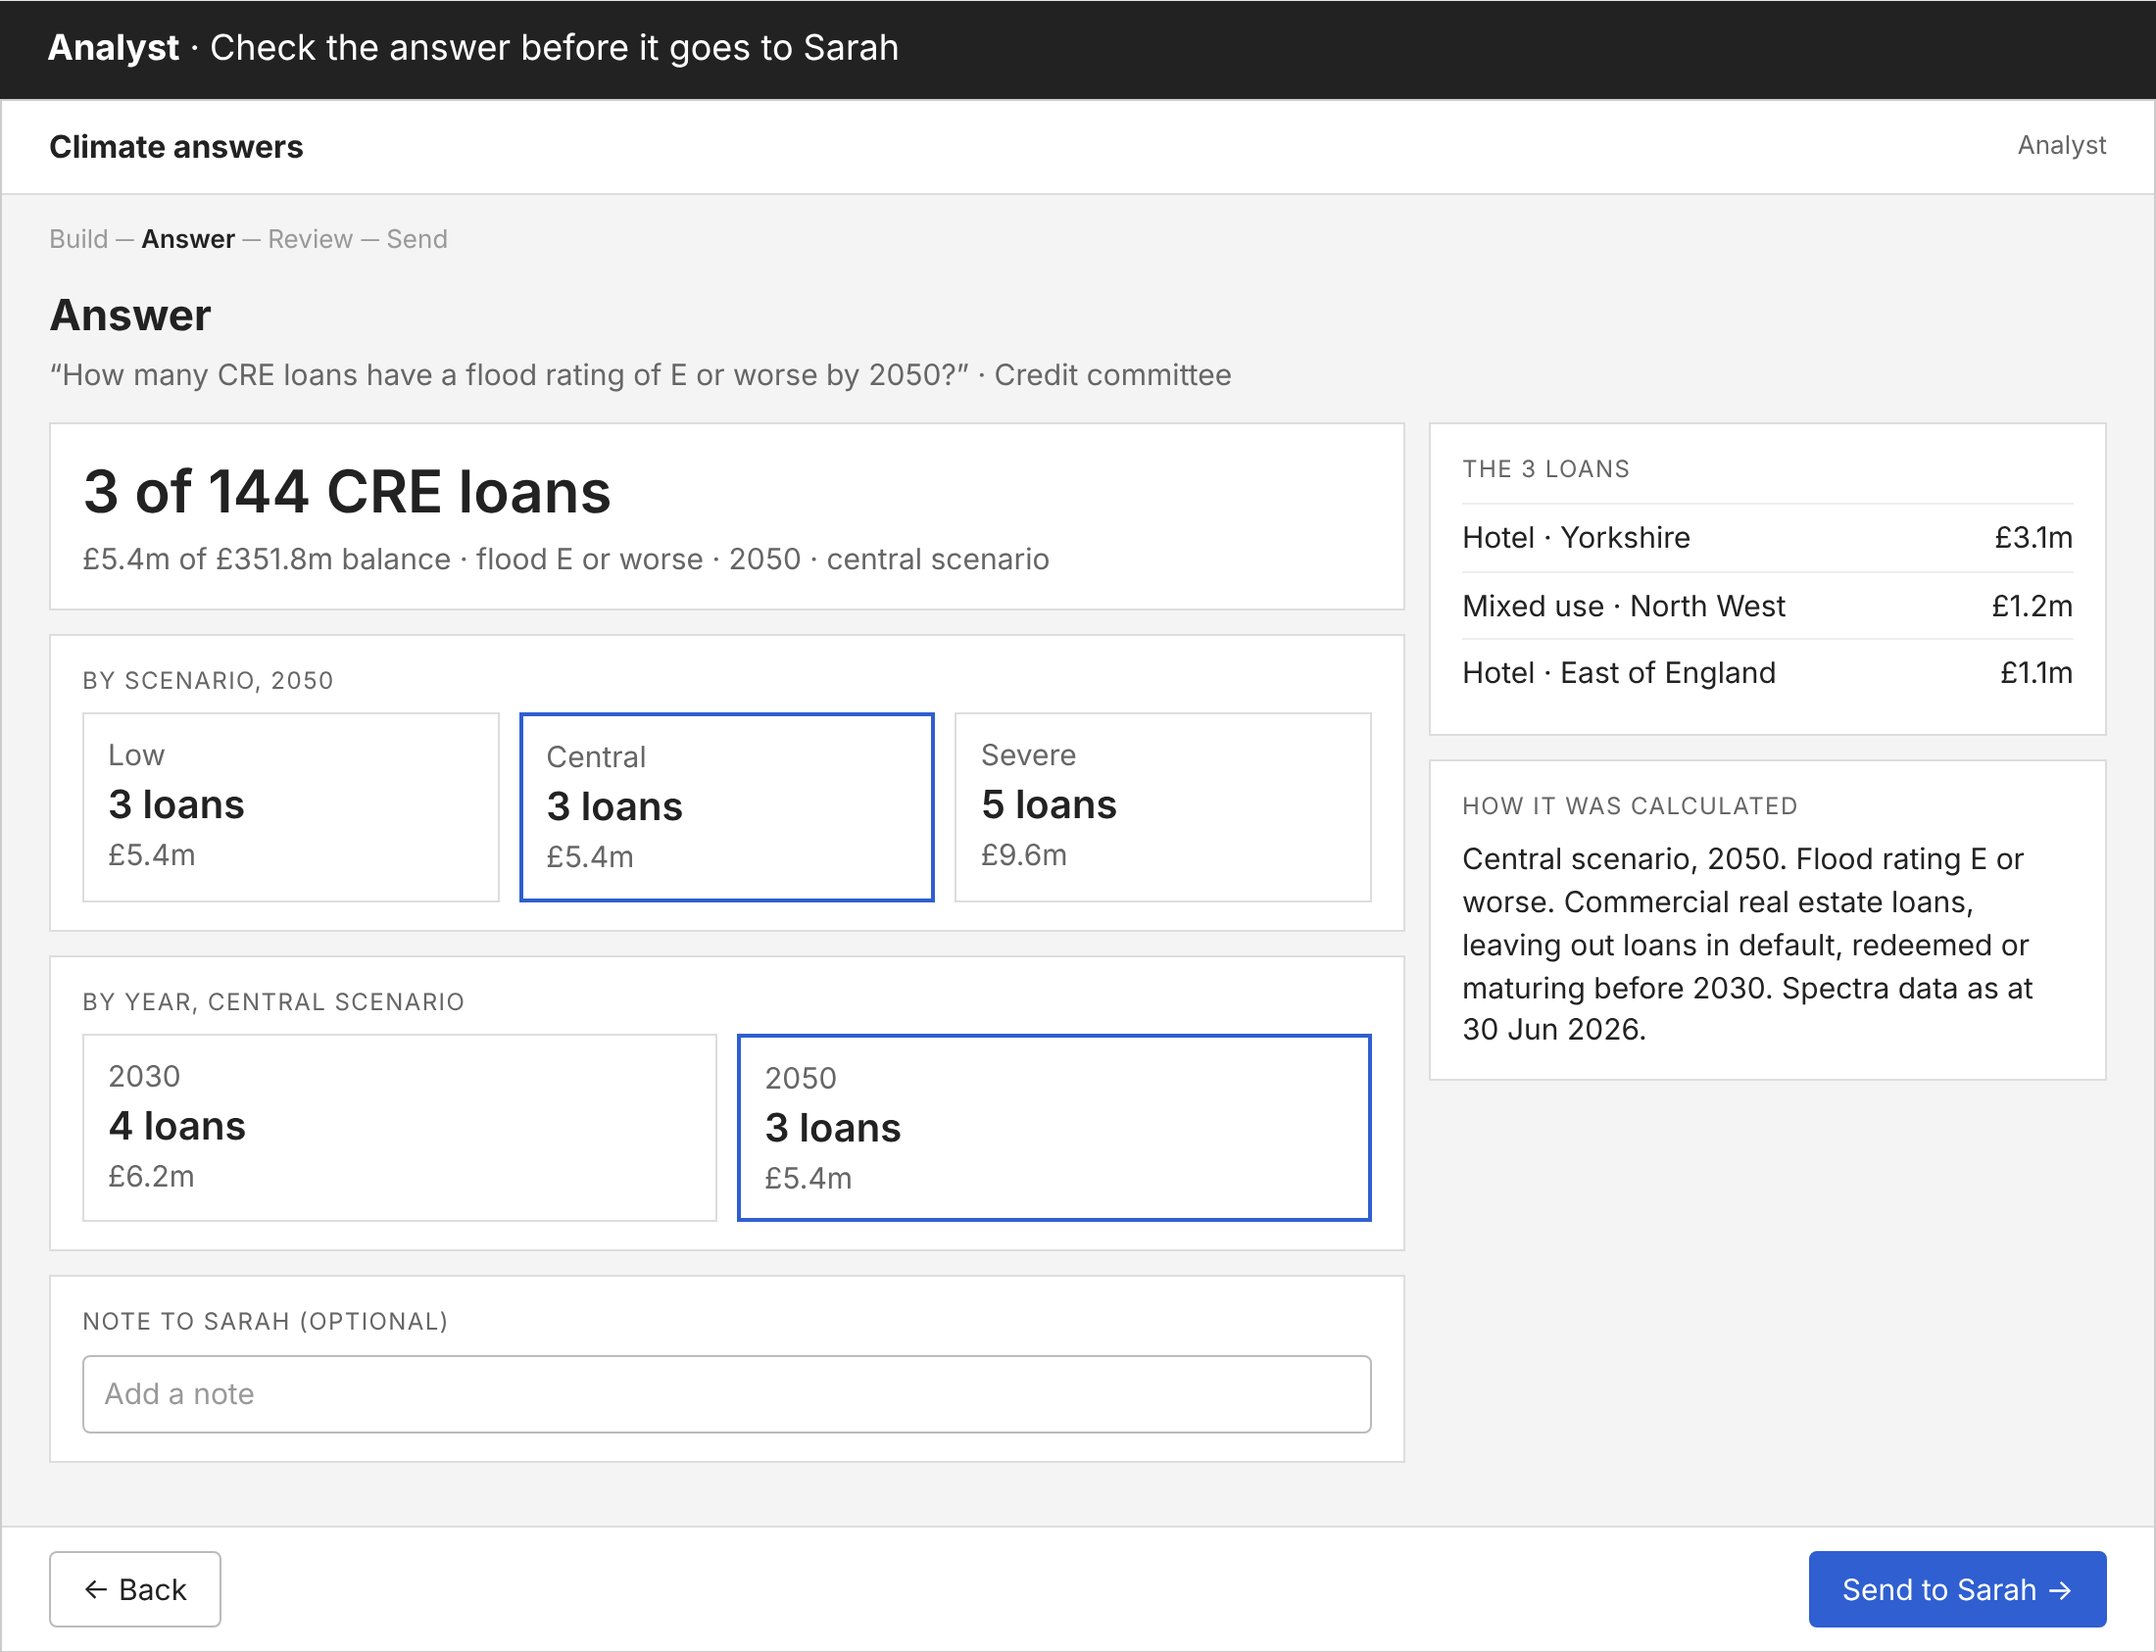
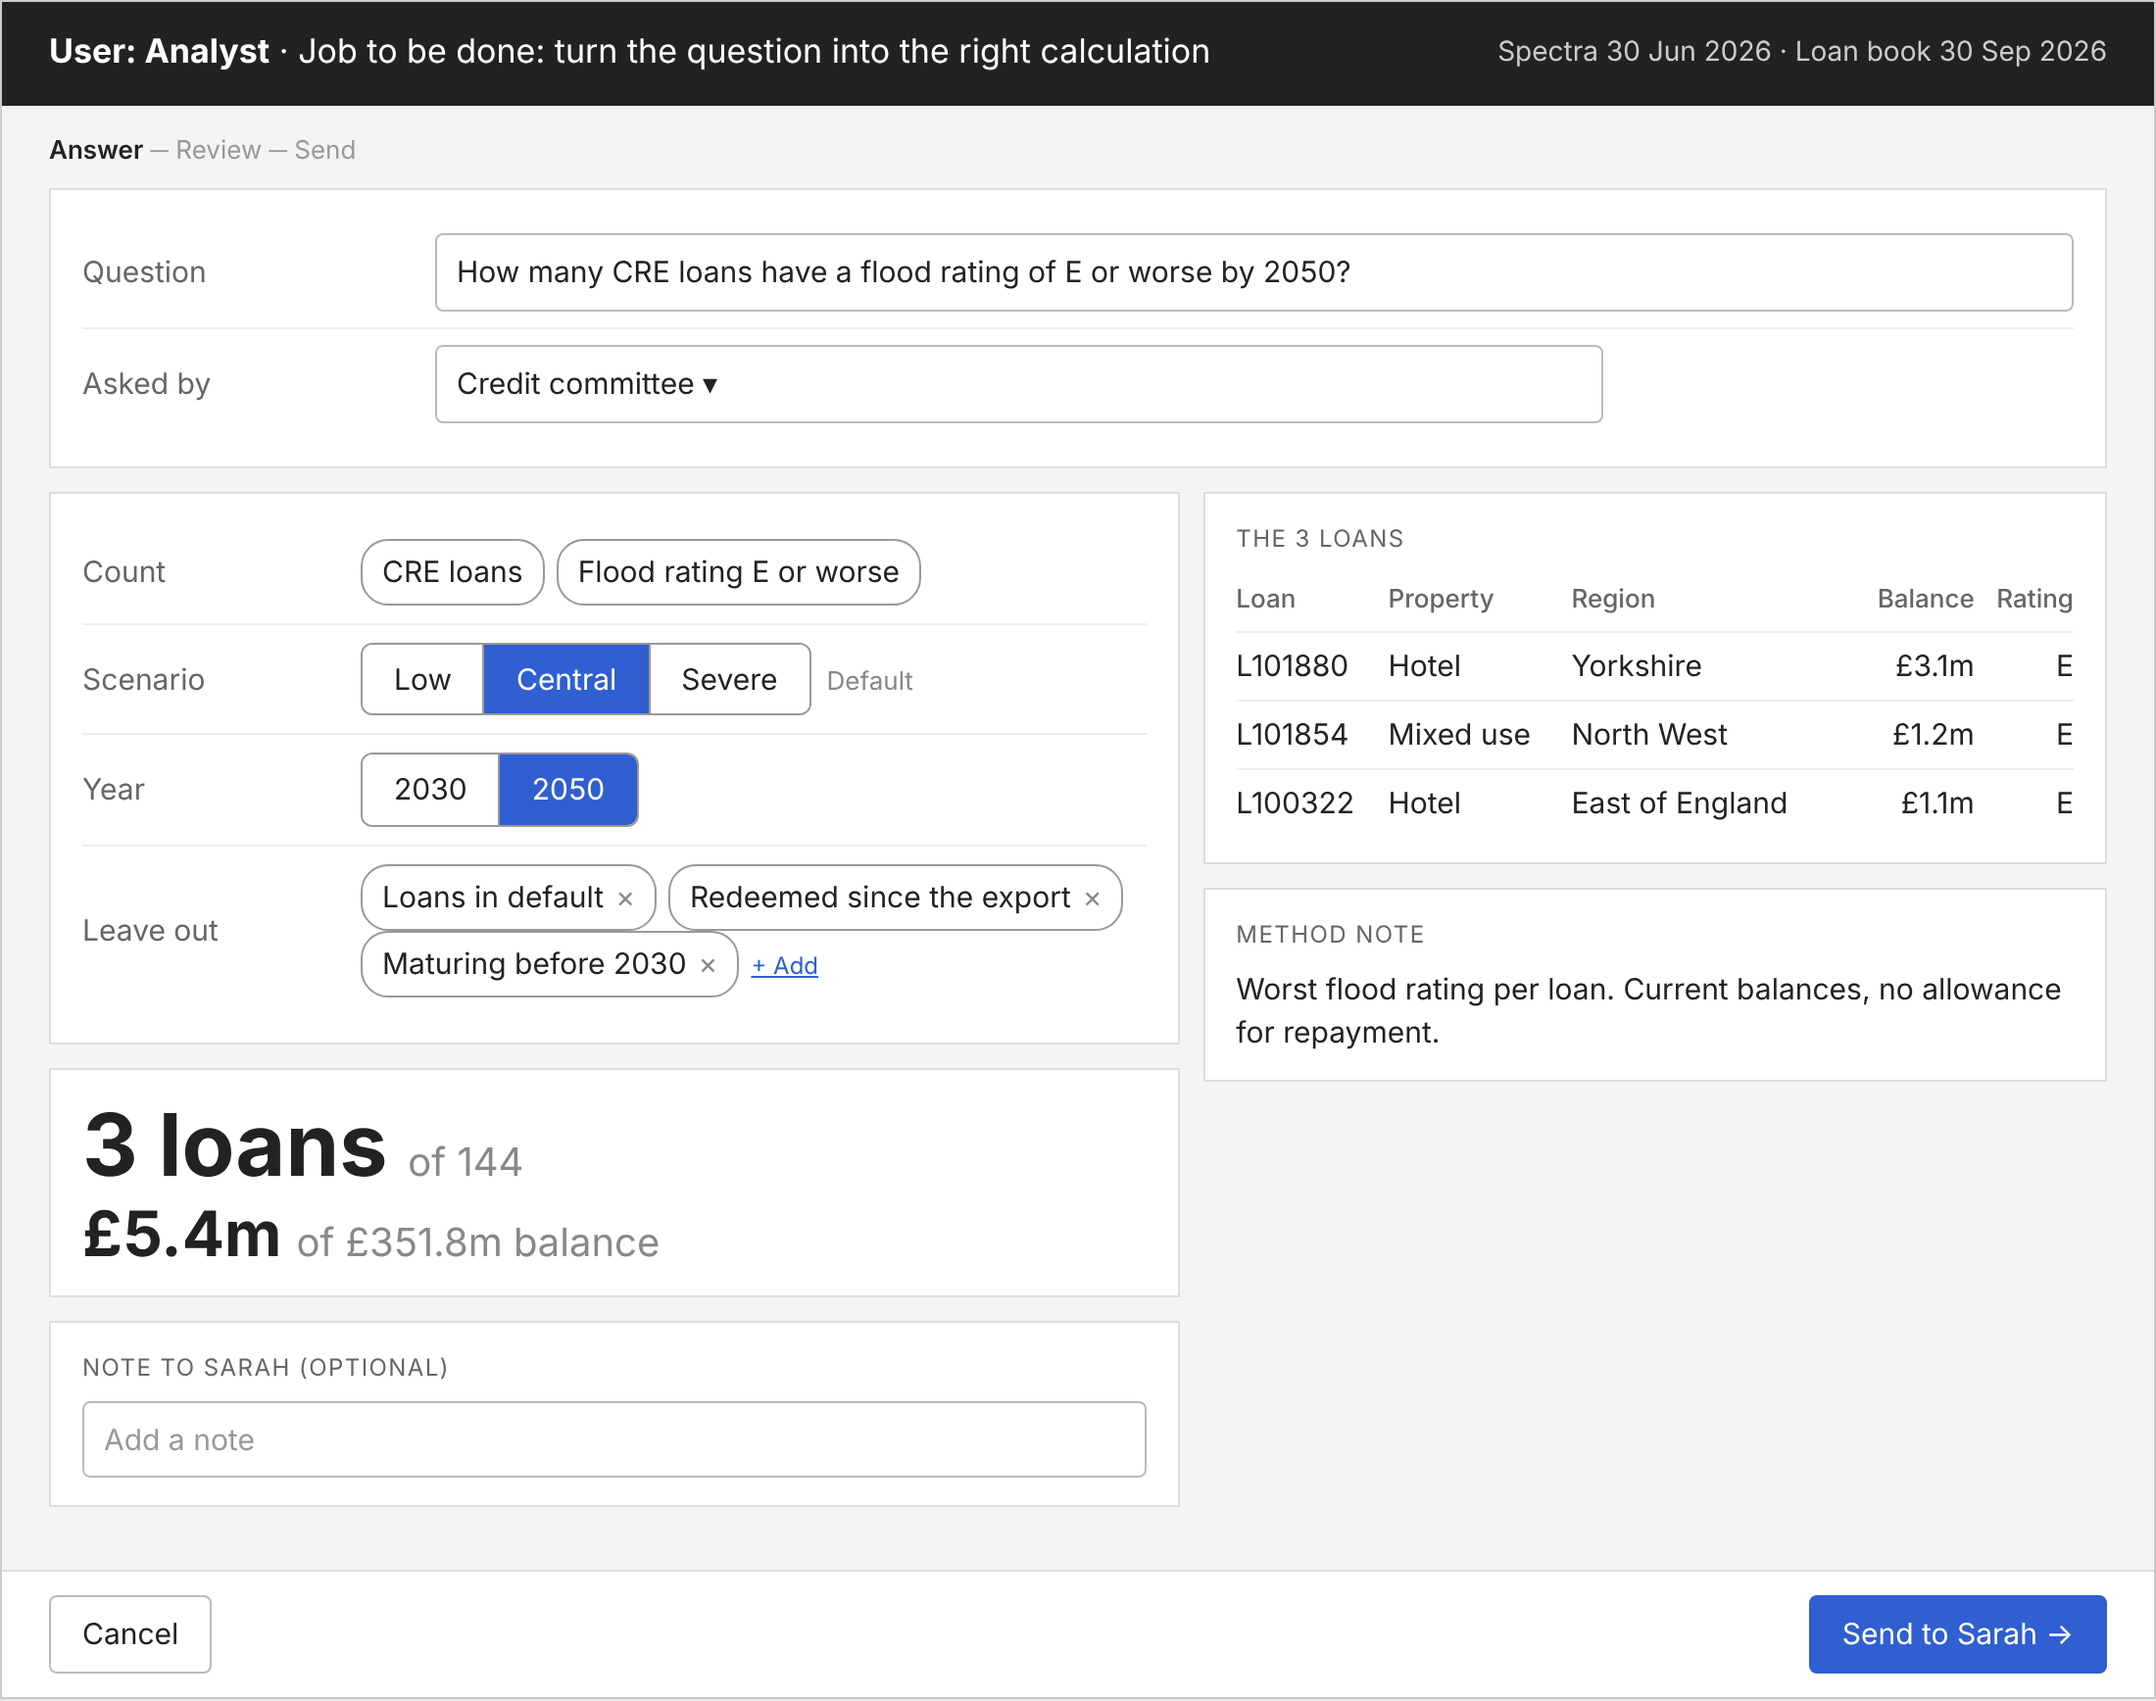
Run 1 solution design: merge Build and Answer into one screen (work in progress)
Claude-Session: https://claude.ai/code/session_016JoguXTxkWcj5knaYbAtMZ

diff --git a/runs/run-1/design/solution-design.html b/runs/run-1/design/solution-design.html
@@ -29,44 +29,40 @@ ol{margin:0;padding-left:20px}li{margin:3px 0}
 .job{width:1100px;margin:30px auto -30px;background:#222;color:#fff;padding:12px 24px;font-size:18px}.job b{font-weight:700}
 .trio{display:grid;grid-template-columns:repeat(3,1fr);gap:10px}.duo{display:grid;grid-template-columns:repeat(2,1fr);gap:10px}
 .opt{border:1px solid var(--line);padding:10px 12px}.opt.on{border:2px solid var(--acc)}.opt .n{font-size:20px;font-weight:600}
+.hdr{display:flex;justify-content:space-between;align-items:center;background:#222;color:#fff;padding:14px 24px;font-size:17px}.hdr span{color:#ccc;font-size:14px}
+.seg{display:inline-flex;border:1px solid #999;border-radius:6px;overflow:hidden}.seg span{padding:7px 16px;border-left:1px solid #999;background:#fff}.seg span:first-child{border-left:0}.seg .on{background:var(--acc);color:#fff}
+.chip{display:inline-block;padding:5px 10px;border:1px solid #999;border-radius:14px;background:#fff;margin-right:6px}.chip i{font-style:normal;color:#888;margin-left:6px}
+.ctl{display:grid;grid-template-columns:130px 1fr;gap:12px;align-items:center;padding:9px 0;border-top:1px solid #eee}.ctl:first-child{border-top:0}.ctl .k{color:var(--mid)}
+.kn{font-size:44px;font-weight:700;line-height:1.1}.ks{font-size:20px;color:#888;font-weight:400}.mini{font-size:13px;color:#888;margin-left:8px}
+th{text-align:left;font-weight:500;color:var(--mid);font-size:13px;padding:6px 0}
 </style></head><body>
-<div class="job" id="job-build"><b>Analyst</b> · Turn the question into the right calculation</div>
-<div class="screen" id="build"><div class="top"><b>Climate answers</b><span>Analyst</span></div>
-<div class="steps"><span class="on">Build</span> ─ Answer ─ Review ─ Send</div>
-<div class="body"><h1>New question</h1>
+
+<div class="screen" id="answer">
+<div class="hdr"><div><b>User: Analyst</b> · Job to be done: turn the question into the right calculation</div><span>Spectra 30 Jun 2026 · Loan book 30 Sep 2026</span></div>
+<div class="steps"><span class="on">Answer</span> ─ Review ─ Send</div>
+<div class="body">
 <div class="card">
  <div class="row"><div class="k">Question</div><div class="input" style="grid-column:2/4">How many CRE loans have a flood rating of E or worse by 2050?</div></div>
  <div class="row"><div class="k">Asked by</div><div class="input">Credit committee ▾</div><div></div></div>
 </div>
-<div class="card"><div class="lbl">We'll calculate</div>
- <div style="font-size:19px">The number of commercial real estate loans with a flood rating of E or worse in 2050, under the central climate scenario.</div>
- <div class="sub" style="margin-top:8px">Leaves out loans in default, redeemed or maturing before 2030.</div></div>
-<div class="warn">The question doesn't name a climate scenario, so we've used <b>central</b>: Sarah's standard for committee answers.</div>
-<div class="src" style="margin-top:12px">Change options</div>
-</div>
-<div class="foot"><span class="btn">Cancel</span><span class="btn p">Calculate →</span></div></div>
-
-<div class="job" id="job-answer"><b>Analyst</b> · Check the answer before it goes to Sarah</div>
-<div class="screen" id="answer"><div class="top"><b>Climate answers</b><span>Analyst</span></div>
-<div class="steps">Build ─ <span class="on">Answer</span> ─ Review ─ Send</div>
-<div class="body"><h1>Answer</h1><div class="q">“How many CRE loans have a flood rating of E or worse by 2050?” · Credit committee</div>
-<div class="cols"><div>
- <div class="card"><div class="big">3 of 144 CRE loans</div><div class="sub">£5.4m of £351.8m balance · flood E or worse · 2050 · central scenario</div></div>
- <div class="card"><div class="lbl">By scenario, 2050</div><div class="trio">
-  <div class="opt"><div class="sub">Low</div><div class="n">3 loans</div><div class="sub">£5.4m</div></div>
-  <div class="opt on"><div class="sub">Central</div><div class="n">3 loans</div><div class="sub">£5.4m</div></div>
-  <div class="opt"><div class="sub">Severe</div><div class="n">5 loans</div><div class="sub">£9.6m</div></div></div></div>
- <div class="card"><div class="lbl">By year, central scenario</div><div class="duo">
-  <div class="opt"><div class="sub">2030</div><div class="n">4 loans</div><div class="sub">£6.2m</div></div>
-  <div class="opt on"><div class="sub">2050</div><div class="n">3 loans</div><div class="sub">£5.4m</div></div></div></div>
+<div class="cols" style="grid-template-columns:1.25fr 1fr"><div>
+ <div class="card">
+  <div class="ctl"><div class="k">Count</div><div><span class="chip">CRE loans</span><span class="chip">Flood rating E or worse</span></div></div>
+  <div class="ctl"><div class="k">Scenario</div><div><span class="seg"><span>Low</span><span class="on">Central</span><span>Severe</span></span><span class="mini">Default</span></div></div>
+  <div class="ctl"><div class="k">Year</div><div><span class="seg"><span>2030</span><span class="on">2050</span></span></div></div>
+  <div class="ctl"><div class="k">Leave out</div><div><span class="chip">Loans in default<i>×</i></span><span class="chip">Redeemed since the export<i>×</i></span><span class="chip">Maturing before 2030<i>×</i></span><span class="src">+ Add</span></div></div>
+ </div>
+ <div class="card"><div class="kn">3 loans <span class="ks">of 144</span></div><div class="kn" style="font-size:32px;margin-top:4px">£5.4m <span class="ks">of £351.8m balance</span></div></div>
  <div class="card"><div class="lbl">Note to Sarah (optional)</div><div class="input" style="color:#999">Add a note</div></div>
 </div><div>
  <div class="card"><div class="lbl">The 3 loans</div><table>
-  <tr><td>Hotel · Yorkshire</td><td class="r">£3.1m</td></tr><tr><td>Mixed use · North West</td><td class="r">£1.2m</td></tr><tr><td>Hotel · East of England</td><td class="r">£1.1m</td></tr></table></div>
- <div class="card"><div class="lbl">How it was calculated</div>Central scenario, 2050. Flood rating E or worse. Commercial real estate loans, leaving out loans in default, redeemed or maturing before 2030. Spectra data as at 30 Jun 2026.</div>
+  <tr><th>Loan</th><th>Property</th><th>Region</th><th style="text-align:right">Balance</th><th style="text-align:right">Rating</th></tr>
+  <tr><td>L101880</td><td>Hotel</td><td>Yorkshire</td><td class="r">£3.1m</td><td class="r">E</td></tr>
+  <tr><td>L101854</td><td>Mixed use</td><td>North West</td><td class="r">£1.2m</td><td class="r">E</td></tr>
+  <tr><td>L100322</td><td>Hotel</td><td>East of England</td><td class="r">£1.1m</td><td class="r">E</td></tr></table></div>
+ <div class="card"><div class="lbl">Method note</div>Worst flood rating per loan. Current balances, no allowance for repayment.</div>
 </div></div></div>
-<div class="foot"><span class="btn">← Back</span><span class="btn p">Send to Sarah →</span></div></div>
-
+<div class="foot"><span class="btn">Cancel</span><span class="btn p">Send to Sarah →</span></div></div>
 <div class="job" id="job-review"><b>Sarah</b> · Approve the answer, or send it back</div>
 <div class="screen" id="review"><div class="top"><b>Climate answers</b><span>Sarah Okafor</span></div>
 <div class="body"><h1>Review</h1><div class="q">“How many CRE loans have a flood rating of E or worse by 2050?” · Credit committee · built by an analyst</div>
